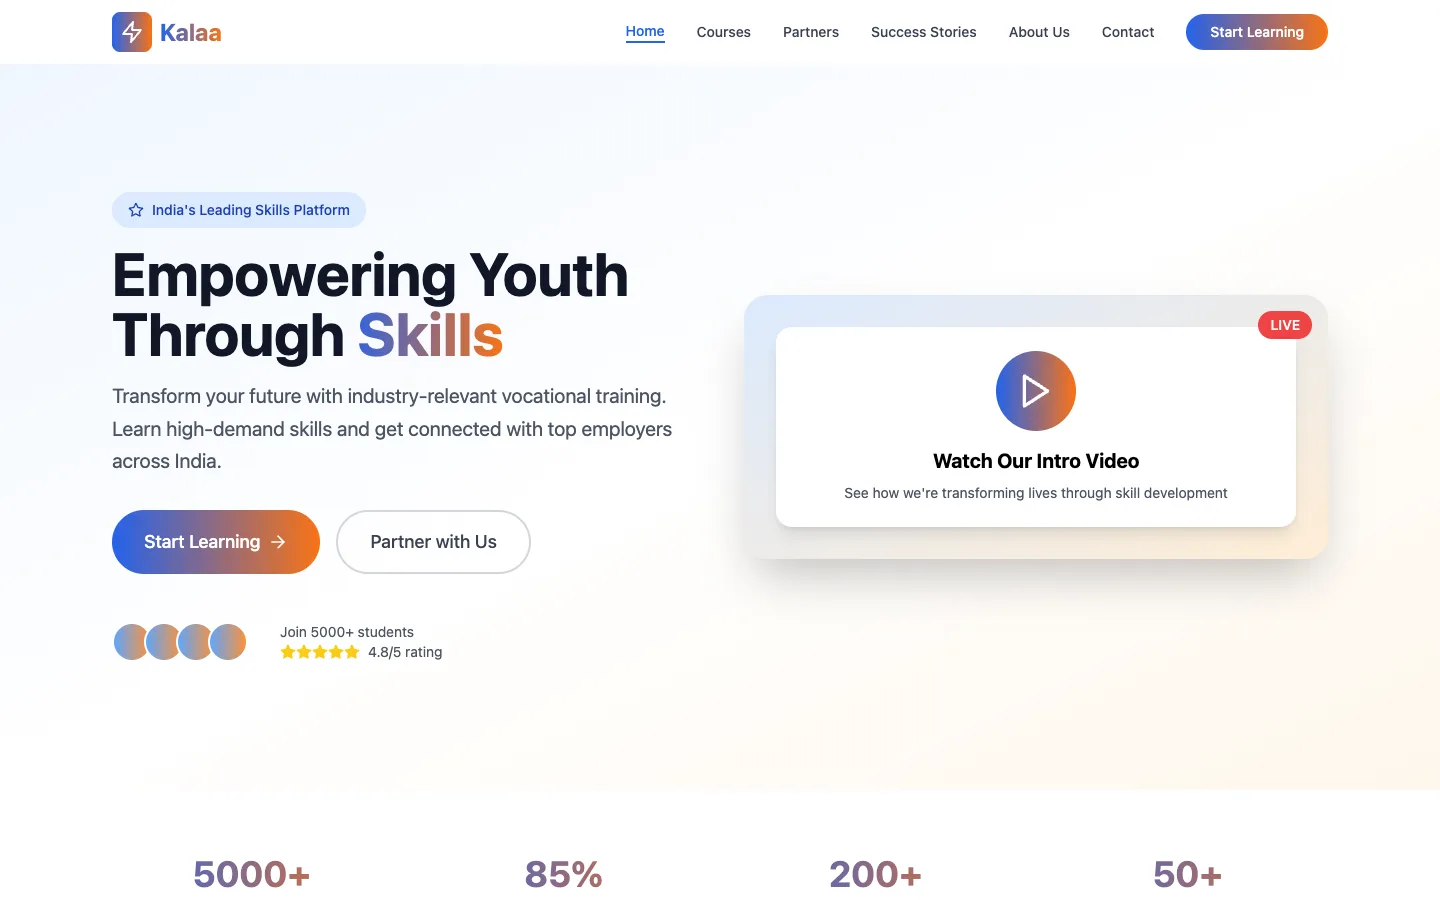
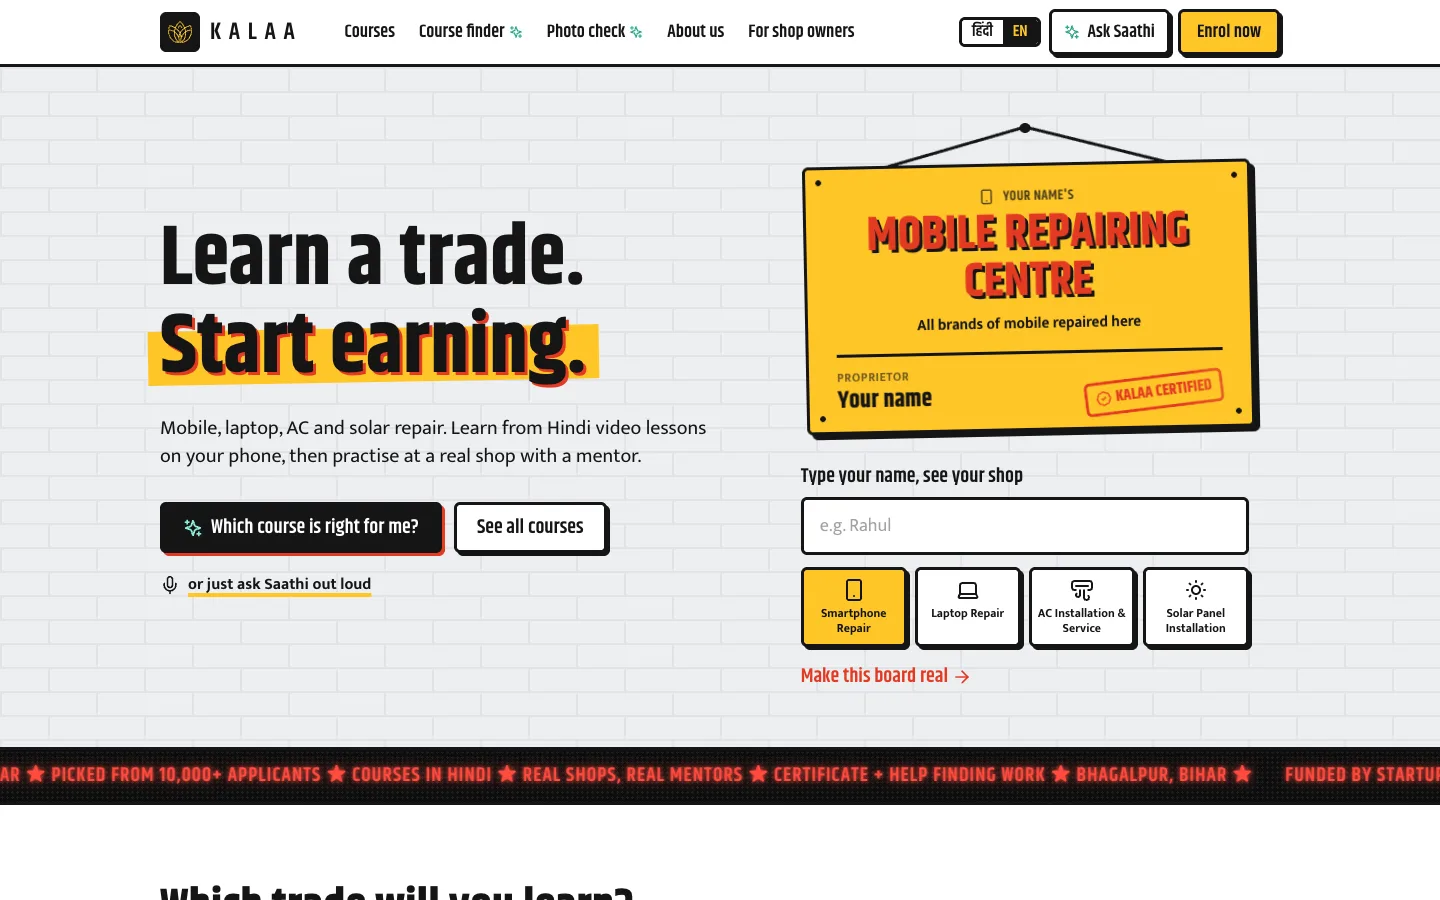
Update Kalaa for the redesign

diff --git a/src/content/projects/kalaa-skilltech.md b/src/content/projects/kalaa-skilltech.md
@@ -6,13 +6,16 @@ demo: site
 title: Kalaa SkillTech
 date: 2024-12-01
 kind: venture
-summary: A startup that trains young people in practical technical skills and connects them with work.
+summary: A startup that teaches young people in Bihar a trade, from phone repair to solar, then places them at real shops.
 role: Co-founder
+stack: [React 18, TypeScript, Vite, Tailwind, Framer Motion, Gemini API, Vercel Functions]
 facts:
   - Picked from more than 10,000 applicants for ₹10 lakh seed funding under Startup Bihar
   - Started in December 2024, while in my first year at IIIT Bhagalpur
+  - Built the site in Hindi and English, with an AI helper that finds courses, talks by voice and spots faults from a photo
 links:
   live: https://kalaa-website.vercel.app
+  code: https://github.com/me-adityaraj8/Kalaa-website
 ---
 
 ## Why it exists
@@ -21,7 +24,11 @@ Plenty of young people in Bihar finish school or college without a skill an empl
 
 ## What I do
 
-I co-founded it in December 2024. Alongside the founding work, I built the first website, which explains the training, the business model and the milestones so far, and has registration forms for future trainees and partners.
+I co-founded it in December 2024, and I build its website. The current version is made for the people we want to enrol: young people in Bihar choosing a trade. It reads in English or Hindi, and it looks like the hand-painted shop signboards they see every day. Type your name and the hero paints your own repair-shop board.
+
+Kalaa Saathi, the AI helper, runs on Gemini through Vercel functions. It suggests a course from a few questions, answers out loud, and looks at a photo of a broken device to say what's likely wrong. It replies in the language you wrote in: English, Hindi or Hinglish.
+
+Every number on the site comes from our pitch deck and company profile, not filler.
 
 ## The seed grant
 

diff --git a/src/content/projects/kalaa-website.md b/src/content/projects/kalaa-website.md
@@ -2,11 +2,11 @@
 title: Kalaa website
 date: 2025-07-30
 kind: early
-summary: The first website for Kalaa SkillTech.
-stack: [TypeScript, GSAP]
-commits: 4
+summary: Kalaa SkillTech's website, rebuilt in Hindi and English with an AI course helper.
+stack: [React, TypeScript, Tailwind, Gemini API]
+commits: 9
 links:
   live: https://kalaa-website.vercel.app
   code: https://github.com/me-adityaraj8/Kalaa-website
 ---
-The first website for Kalaa SkillTech.
+Kalaa SkillTech's website. The case study is under Kalaa SkillTech.
